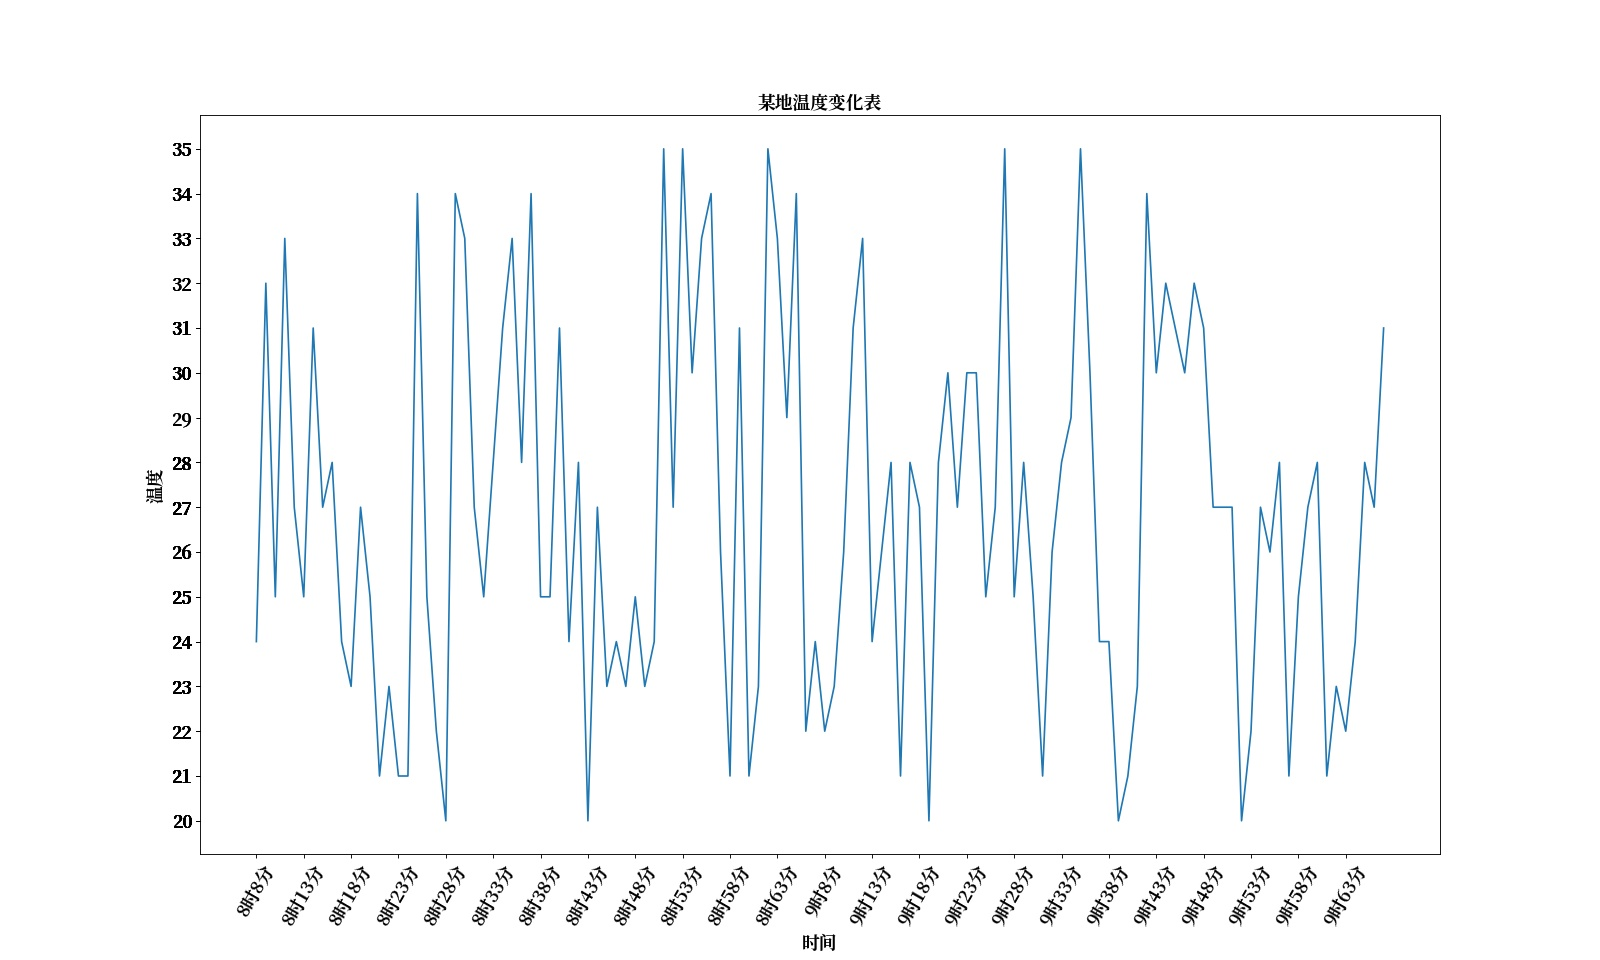
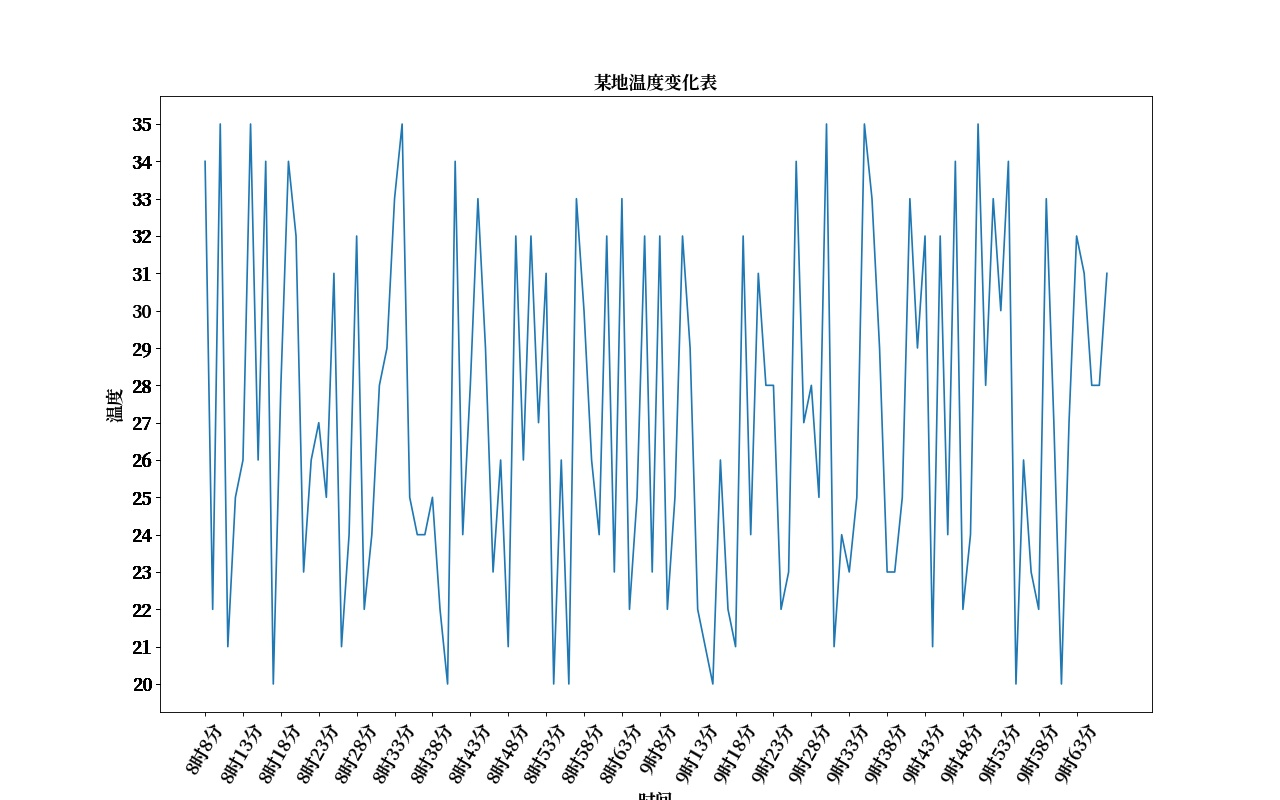
设置matplotlib显示中文，添加描述信息

diff --git a/数据分析/code/matplotlib_test/matplotlib_test2.py b/数据分析/code/matplotlib_test/matplotlib_test2.py
@@ -5,10 +5,10 @@ import random
 x = range(120)
 y = [random.randint(20, 35) for i in range(120)]
 
-plt.figure(figsize=(20, 12), dpi=80)
+plt.figure(figsize=(16, 10), dpi=80)
 
 # x轴样式设置
-x_label = ['{}时{}分'.format(int((i / 60) + 8), int(i % 60) + 8) for i in x]
+x_label = ['{}时{}分'.format(int((i / 60) + 8), int((i % 60) + 8)) for i in x]
 
 # 设置中文字体，在终端输入fc-list :lang=zh查看系统支持的中文字体， fc-list查看支持的所有字体
 my_font = font_manager.FontProperties(fname='/usr/share/fonts/opentype/noto/NotoSerifCJK-Bold.ttc', size=16)
